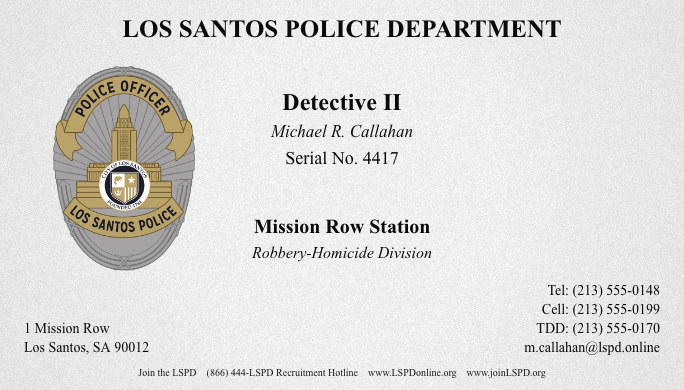
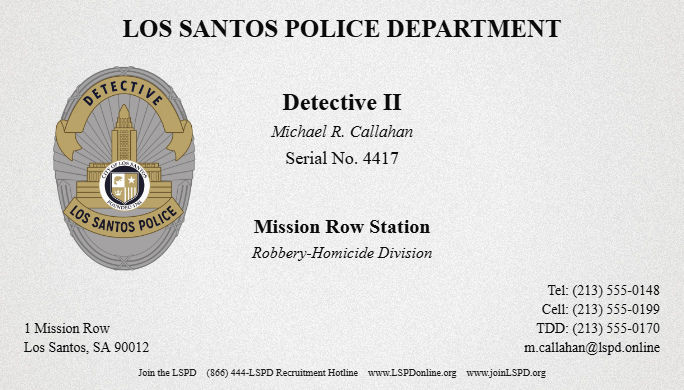
Feature: use per-rank LSPD badge artwork on business cards
Ranks now resolve to their own shield instead of every officer sharing
the generic LSPD badge. Grade suffixes ("Sergeant II") are stripped
before lookup since all grades of a rank wear the same badge, and a
null entry (Police Administrator) falls back to the department logo.
Bumps GUMA_VERSION to 1.8 to bust the cached asset list.

diff --git a/js/business-card.js b/js/business-card.js
@@ -77,6 +77,26 @@ function bcGetBcConfig(key) {
   return (typeof FACTIONS !== "undefined" ? FACTIONS[key]?.businessCard : null) || {};
 }
 
+// ── Rank -> badge artwork ────────────────────────────────────────────────
+// Grade suffixes are cosmetic on the badge itself: a "Sergeant II" wears a
+// badge reading "SERGEANT". Strip the trailing roman numeral (and "+1" style
+// pay grades) so every grade of a rank maps to the same artwork.
+const BC_RANK_GRADE_RE = /\s+I{1,3}(\+\d+)?$/;
+
+function bcBaseRank(rank) {
+  return (rank || "").replace(BC_RANK_GRADE_RE, "").trim();
+}
+
+/** Badge image for a rank, falling back to the faction default, then its logo. */
+function bcResolveBadge(bc, base, rank) {
+  const key = bcBaseRank(rank);
+  if (bc.rankBadges && key in bc.rankBadges) {
+    // A `null` entry means the rank has no shield: show the department logo.
+    return bc.rankBadges[key] || base?.icon || "";
+  }
+  return bc.badge || base?.icon || "";
+}
+
 // ── Init ─────────────────────────────────────────────────────────────────
 function bcInit() {
   const switcher = document.getElementById("bcFactionSwitcher");
@@ -230,7 +250,7 @@ async function bcRender() {
   }
 
   // ── Preload image ────────────────────────────────────────────
-  const imgSrc = isCustom ? bcCustomImage : bc.badge || base?.icon || "";
+  const imgSrc = isCustom ? bcCustomImage : bcResolveBadge(bc, base, rank);
   const img = imgSrc ? await bcLoadImage(imgSrc) : null;
   if (myToken !== bcRenderToken) return;
 

diff --git a/js/factions.js b/js/factions.js
@@ -21,6 +21,21 @@ const FACTIONS = {
     businessCard: {
       header: "LOS SANTOS POLICE DEPARTMENT",
       badge: "assets/lspd_badge.png",
+      // Badge artwork per rank, keyed by the rank without its grade suffix
+      // ("Sergeant II" -> "Sergeant") since grades share one badge.
+      // `null` = sworn shield does not apply; the department logo is used.
+      rankBadges: {
+        "Police Officer": "assets/lspd_badge.png",
+        "Detective": "assets/lspd_badge_detective.png",
+        "Police Administrator": null,
+        "Sergeant": "assets/lspd_badge_sergeant.png",
+        "Lieutenant": "assets/lspd_badge_lieutenant.png",
+        "Captain": "assets/lspd_badge_captain.png",
+        "Commander": "assets/lspd_badge_commander.png",
+        "Deputy Chief": "assets/lspd_badge_deputy_chief.png",
+        "Assistant Chief of Police": "assets/lspd_badge_assistant_chief.png",
+        "Chief of Police": "assets/lspd_badge_chief_of_police.png",
+      },
       recruitName: "LSPD",
       recruitPhone: "(866) 444-LSPD",
       websiteMain: "www.LSPDonline.org",

diff --git a/js/components.js b/js/components.js
@@ -1,4 +1,4 @@
-const GUMA_VERSION = "1.7";
+const GUMA_VERSION = "1.8";
 
 // HEADER
 class GumaHeader extends HTMLElement {
@@ -6,7 +6,13 @@ class GumaHeader extends HTMLElement {
     const current = window.location.pathname.split("/").pop() || "index.html";
 
     const isCard = ["officer_generator.html", "firefighter_generator.html", "business_card_generator.html"].includes(current);
-    const isReport = ["firearm_discharge.html", "traffic_collision_report.html", "personnel_file_generator.html", "arrest_report.html", "prehospital_care_report.html"].includes(current);
+    const isReport = [
+      "firearm_discharge.html",
+      "traffic_collision_report.html",
+      "personnel_file_generator.html",
+      "arrest_report.html",
+      "prehospital_care_report.html",
+    ].includes(current);
     const isHome = current === "index.html" || current === "";
     const isAbout = current === "about.html";
 
